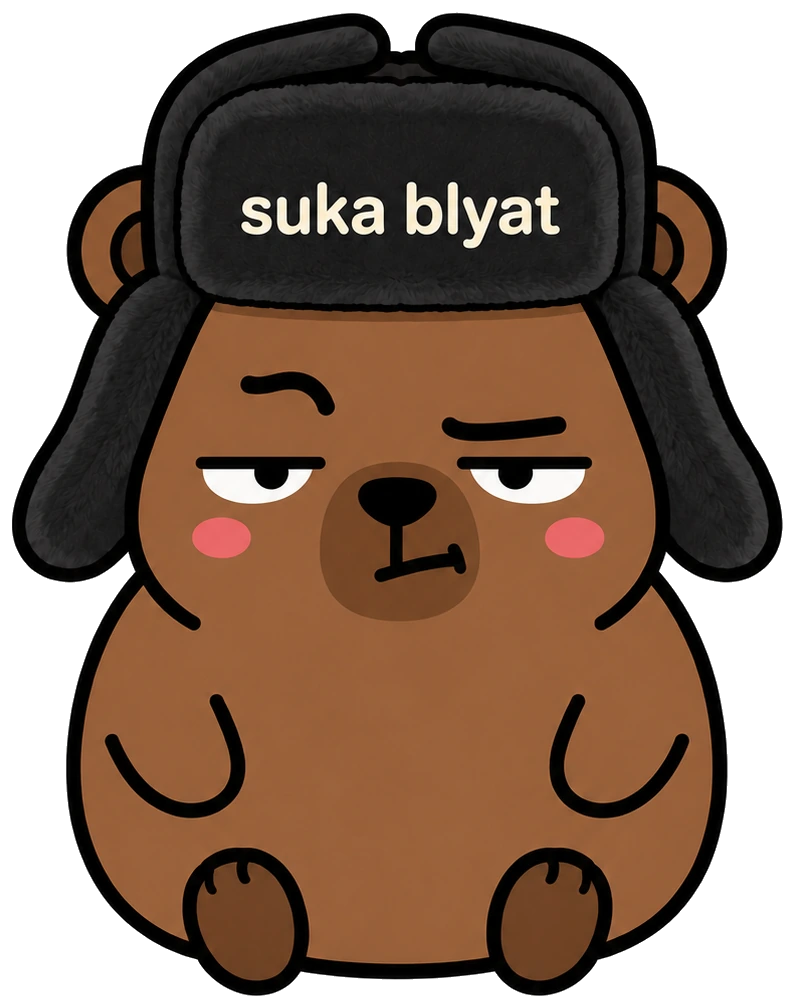
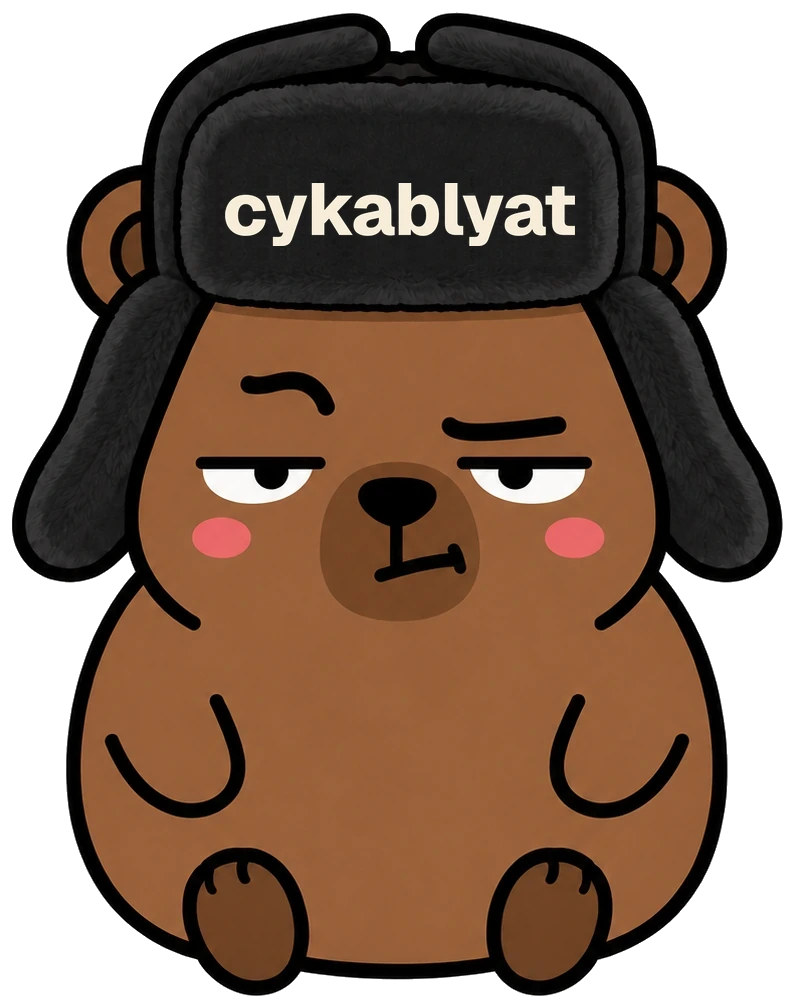
cykablyat, and drop the masthead line
The hat said "suka blyat", and it said it in pixels — the lettering is painted
into kapibara.webp, not drawn by any component, so this repaints the artwork.
The cover is not a flat fill: it tiles real panel rows lifted from just below
the old word, which carries the same faint grain as everything around it, so
the patch has no edge to find. The new word is scaled to the old word's exact
ink height and centred on the same optical centre, so the hat's proportions
are untouched. Set in the site's own typeface, since matching the original
display face was not possible with the fonts available here.

The masthead line goes from all seven screens. That leaves the counter alone in
a row that was holding it right with space-between, so it now holds itself there
with margin-left: auto. The .eyebrow rule and its 400px clause go with it, being
unused the moment the last one is deleted.

og.png re-rendered — it embeds the mascot, so it went stale the instant the
webp changed, and a stale share card only shows itself in someone else's
Telegram preview. suka_blyat_bear_avatar.webp deleted, referenced by nothing.

Verified: zero occurrences of either string in the export, 22 viewports clean,
no CSP violations, still no request to any origin but its own, and the hat read
by eye at full size, at the size screen 1 actually renders it, and rotated on
screen 4 where he sleeps under it.

Claude-Session: https://claude.ai/code/session_01AwDL7xSUWu4HoaSM6g9izF

Changed region(s): [[0.2717, 0.1845, 0.7245, 0.246]]

diff --git a/src/app/globals.css b/src/app/globals.css
@@ -140,29 +140,24 @@ body {
 .top {
   display: flex;
   align-items: center;
-  justify-content: space-between;
   gap: 1rem;
 }
 
-.eyebrow,
 .count {
   font-size: clamp(0.72rem, 1.7vw, 0.82rem);
   font-weight: 700;
   letter-spacing: 0.16em;
   text-transform: uppercase;
   color: var(--text-dim);
-}
-.count {
   font-variant-numeric: tabular-nums;
-  /* "01 / 07" is one token — squeezed by the eyebrow it was breaking after the
-     slash and pushing the page number onto its own line. */
   white-space: nowrap;
+  /* The counter used to be held on the right by space-between, against the
+     masthead line on the left. It is the only child now, so it needs its own
+     reason to stay there. */
+  margin-left: auto;
 }
 
-/* At 360px the masthead ran to two lines and took the counter with it. The
-   tracking is what costs the width here, not the letters. */
 @media (max-width: 400px) {
-  .eyebrow,
   .count {
     font-size: 0.68rem;
     letter-spacing: 0.08em;
@@ -171,7 +166,7 @@ body {
 
 .head {
   text-align: center;
-  /* The headline used to sit almost against the eyebrow row, which read as the
+  /* The headline used to sit almost against the top row, which read as the
      type having been pushed off the top of the screen. Viewport-relative so
      short phone screens do not spend their scarce height on it. */
   padding-top: clamp(0.5rem, 3vh, 2rem);

diff --git a/src/app/layout.tsx b/src/app/layout.tsx
@@ -31,7 +31,7 @@ export const metadata: Metadata = {
   description: DESCRIPTION,
   openGraph: {
     type: "website",
-    siteName: "Capybara Blyatovich · Lending Co.",
+    siteName: "$SB",
     locale: "en_US",
     url: SITE_URL,
     title: TITLE,
@@ -44,7 +44,7 @@ export const metadata: Metadata = {
         url: "/og.png",
         width: 1200,
         height: 630,
-        alt: "Capybara Blyatovich in his suka blyat ushanka, beside the words: lock memes, borrow the meme.",
+        alt: "Capybara Blyatovich in his cykablyat ushanka, beside the words: lock memes, borrow the meme.",
       },
     ],
   },

diff --git a/src/components/WakeSection.tsx b/src/components/WakeSection.tsx
@@ -105,7 +105,6 @@ export function WakeSection() {
       ref={ref}
     >
       <div className="top" data-ent="fade" data-ent-delay="0">
-        <div className="eyebrow">Capybara Blyatovich · Lending Co.</div>
         <div className="count">04 / 07</div>
       </div>
 
@@ -124,7 +123,7 @@ export function WakeSection() {
           <div
             className={`${s.verdict} sticker`}
           >
-            Suka blyat enough, I need a different life
+            Cykablyat enough, I need a different life
           </div>
 
           <svg

diff --git a/src/components/RepaySection.tsx b/src/components/RepaySection.tsx
@@ -198,7 +198,6 @@ export function RepaySection() {
   return (
     <section className={`stage ${freed ? s.freed : ""}`} ref={ref}>
       <div className="top" data-ent="fade" data-ent-delay="0">
-        <div className="eyebrow">Capybara Blyatovich · Lending Co.</div>
         <div className="count">03 / 07</div>
       </div>
 

diff --git a/src/components/PlaygroundSection.tsx b/src/components/PlaygroundSection.tsx
@@ -214,7 +214,6 @@ export function PlaygroundSection() {
   return (
     <section className={stageClasses} ref={ref}>
       <div className="top" data-ent="fade" data-ent-delay="0">
-        <div className="eyebrow">Capybara Blyatovich &middot; Lending Co.</div>
         <div className="count">06 / 07</div>
       </div>
 

diff --git a/src/components/JoinSection.tsx b/src/components/JoinSection.tsx
@@ -111,7 +111,6 @@ export function JoinSection() {
   return (
     <section className="stage" ref={ref}>
       <div className="top" data-ent="fade" data-ent-delay="0">
-        <div className="eyebrow">Capybara Blyatovich &middot; Lending Co.</div>
         <div className="count">07 / 07</div>
       </div>
 

diff --git a/src/components/HeroSection.tsx b/src/components/HeroSection.tsx
@@ -171,7 +171,6 @@ export function HeroSection() {
   return (
     <section className="stage" ref={ref}>
       <div className="top" data-ent="fade" data-ent-delay="0">
-        <div className="eyebrow">Capybara Blyatovich · Lending Co.</div>
         <div className="count">01 / 07</div>
       </div>
 

diff --git a/src/components/VaultSection.tsx b/src/components/VaultSection.tsx
@@ -390,7 +390,6 @@ export function VaultSection() {
       ref={setRefs}
     >
       <div className="top" data-ent="fade" data-ent-delay="0">
-        <div className="eyebrow">Capybara Blyatovich · Lending Co.</div>
         <div className="count">02 / 07</div>
       </div>
 

diff --git a/src/components/StorySection.tsx b/src/components/StorySection.tsx
@@ -98,7 +98,6 @@ export function StorySection() {
       ref={ref}
     >
       <div className="top" data-ent="fade" data-ent-delay="0">
-        <div className="eyebrow">Capybara Blyatovich · Lending Co.</div>
         <div className="count">05 / 07</div>
       </div>
 

diff --git a/public/assets/README.md b/public/assets/README.md
@@ -5,7 +5,7 @@ Save the Kapibara Blyatovich art into **this folder**
 
 | Filename | What it is |
 |---|---|
-| `kapibara.webp` | Kapibara Blyatovich — grumpy capybara in the "suka blyat" ushanka, full body, transparent or flat background |
+| `kapibara.webp` | Kapibara Blyatovich — grumpy capybara in the "cykablyat" ushanka, full body, transparent or flat background |
 
 The page already points at `/assets/kapibara.webp`. Once the file exists it
 renders with no code changes — the grow, gulp and squash animations are driven
